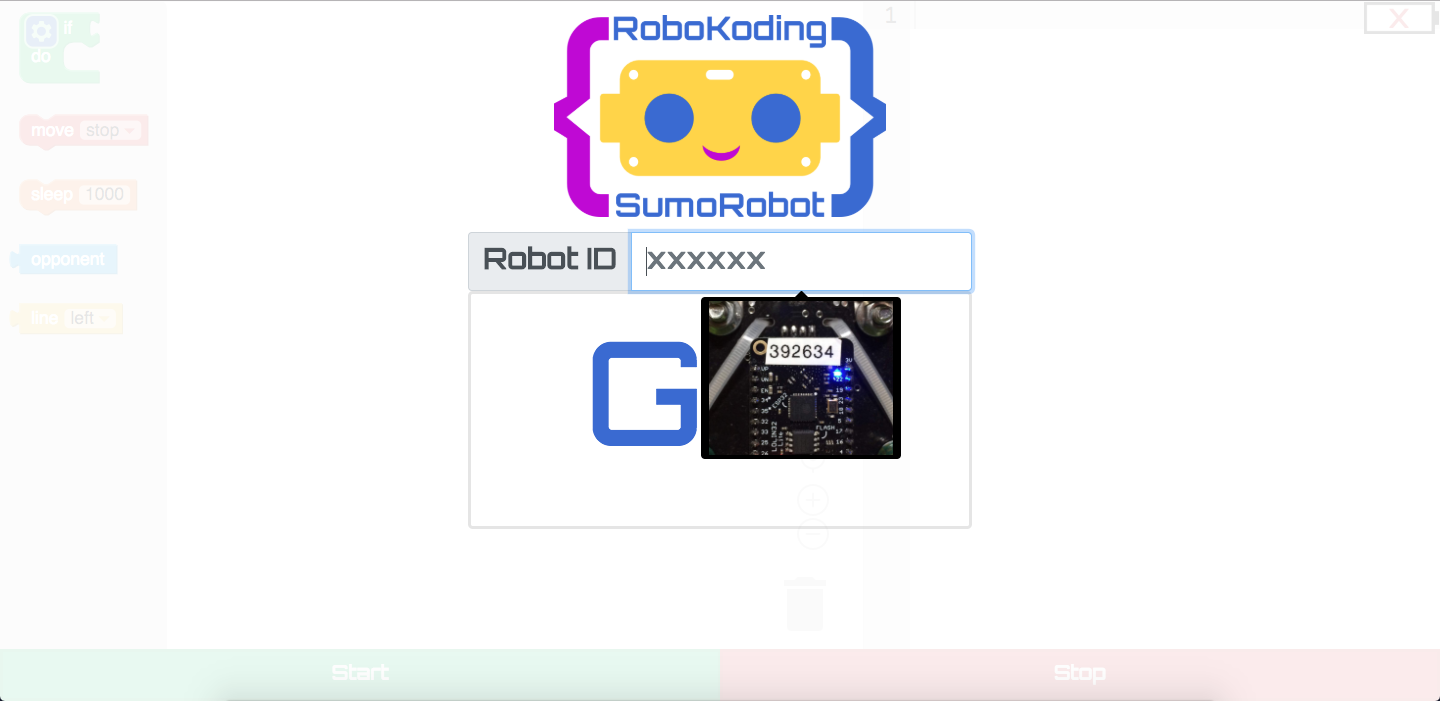
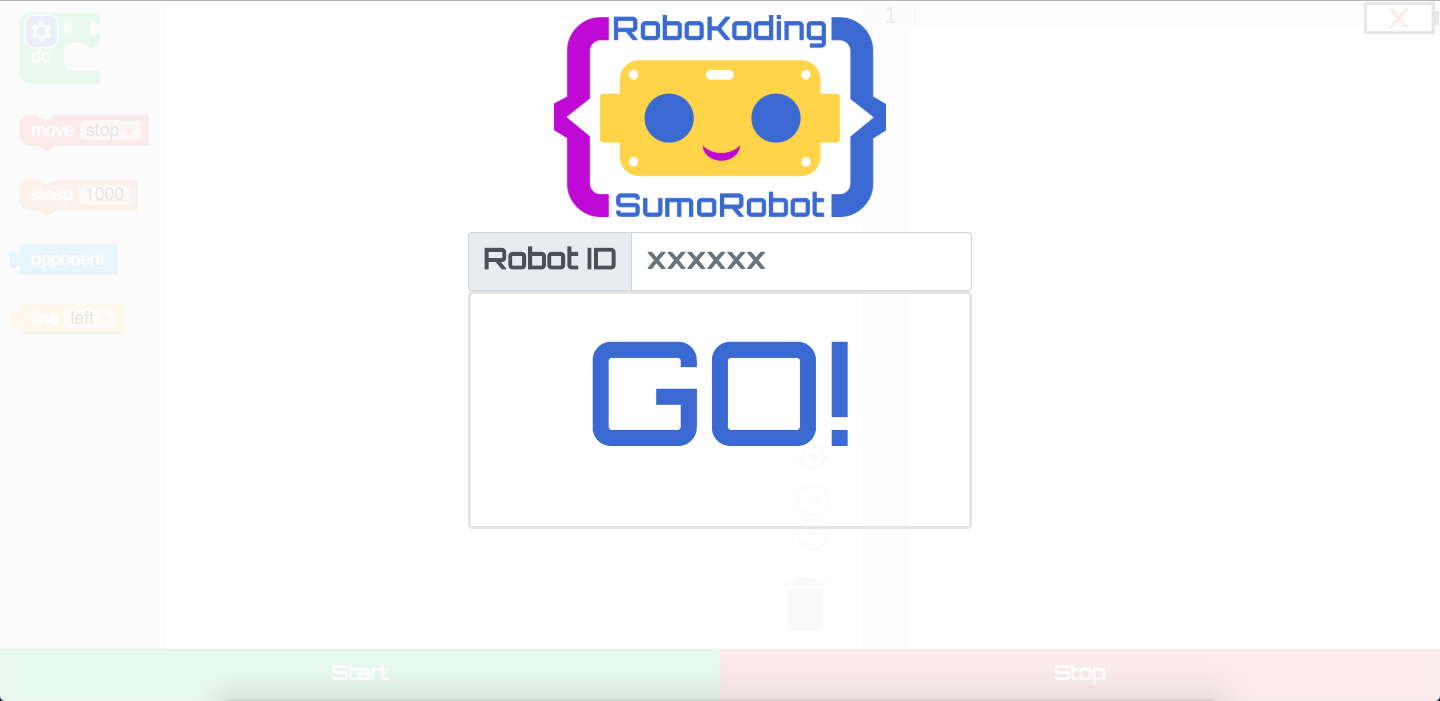
update sumorobot interface page

Changed region(s): [[0.4375, 0.3894, 0.6875, 0.6591], [0.6562, 0.3295, 0.6875, 0.3595], [0.4375, 0.3295, 0.4688, 0.3595]]

diff --git a/_pages/kits/sumointerface/index.md b/_pages/kits/sumointerface/index.md
@@ -8,7 +8,7 @@ Access the SumoRobot programming interface [here](http://sumo.robokoding.com).
 
 ## Control panel
 
-Below is how the control panel looks like for the SumoInterface. Here you can add our SumoRobot ID that you can find in the SumoManager. It is a 8 character unique identifier for your SumoRobot. Once having entered the SumoRobot ID press GO! or hit the enter key on the keyboard. To come back to the control panel or close it, you can use the keyboard combination Alt + C.
+Below is how the control panel looks like for the SumoInterface. Here you can add our SumoRobot ID that you can find in the SumoManager app when you connect your SumoRobot with the micro USB cable. It is a 8 character unique identifier for your SumoRobot. Once having entered the SumoRobot ID press GO! or hit the enter key on the keyboard. To come back to the control panel or close it, you can use the keyboard combination Alt + C.
 
 ![control_panel](/assets/img/sumorobot_interface_control_panel.png)
 
